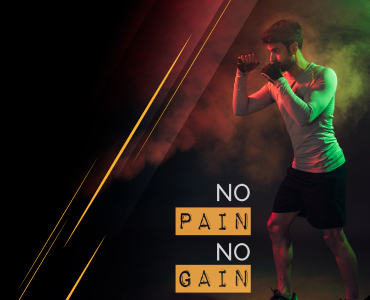
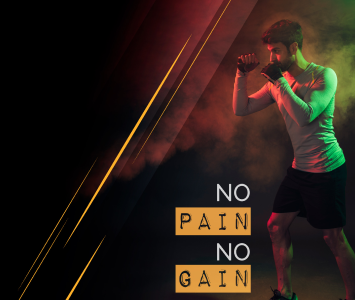
-Sign up View

diff --git a/lib/core/theme/text_styles.dart b/lib/core/theme/text_styles.dart
@@ -1,72 +1,18 @@
-// import 'package:flutter/material.dart';
-// import 'package:flutter_screenutil/flutter_screenutil.dart';
-// import 'package:med_app/core/theme/color_palette.dart';
-// import 'package:med_app/core/theme/myFontWeights.dart';
-//
-// import 'color_palette.dart';
-// import 'myFontWeights.dart';
-//
-// class MyTextStyles {
-//   static TextStyle fontInter32MainBlueBold = TextStyle(
-//       fontFamily: 'Inter',
-//       color: ColorPalette.mainBlue,
-//       fontSize: 32.sp,
-//       fontWeight: MyFontWeights.bold);
-//   static TextStyle font24BlackBoldest = TextStyle(
-//       color: Colors.black, fontSize: 24.sp, fontWeight: MyFontWeights.boldest);
-//   static TextStyle fontInter24MainBlueBold = TextStyle(
-//       fontFamily: 'Inter',
-//       color: ColorPalette.mainBlue,
-//       fontSize: 24.sp,
-//       fontWeight: MyFontWeights.bold);
-//   static TextStyle fontInter16WhiteSemiBold = TextStyle(
-//       fontFamily: 'Inter',
-//       color: Colors.white,
-//       fontSize: 16.sp,
-//       fontWeight: MyFontWeights.semiBold);
-//   static TextStyle fontInter16DarkGreyMedium = TextStyle(
-//       fontFamily: 'Inter',
-//       color: ColorPalette.darkGrey,
-//       fontSize: 16.sp,
-//       fontWeight: MyFontWeights.medium);
-//   static TextStyle fontInter14DarkGreyRegular = TextStyle(
-//       fontFamily: 'Inter',
-//       color: ColorPalette.darkGrey,
-//       fontSize: 14.sp,
-//       fontWeight: MyFontWeights.regular);
-//   static TextStyle fontInter14DarkBlueMedium = TextStyle(
-//       fontFamily: 'Inter',
-//       color: ColorPalette.darkBlue,
-//       fontSize: 14.sp,
-//       fontWeight: MyFontWeights.medium);
-//   static TextStyle fontInter14GreyMedium = TextStyle(
-//       fontFamily: 'Inter',
-//       color: ColorPalette.grey,
-//       fontSize: 14.sp,
-//       fontWeight: MyFontWeights.medium);
-//   static TextStyle fontInter13MainBlueRegular = TextStyle(
-//       fontFamily: 'Inter',
-//       color: ColorPalette.mainBlue,
-//       fontSize: 13.sp,
-//       fontWeight: MyFontWeights.regular);
-//   static TextStyle fontInter13DarkGreyRegular = TextStyle(
-//       fontFamily: 'Inter',
-//       color: ColorPalette.darkGrey,
-//       fontSize: 13.sp,
-//       fontWeight: MyFontWeights.regular);
-//   static TextStyle fontInter11DarkGreyRegular = TextStyle(
-//       fontFamily: 'Inter',
-//       color: ColorPalette.darkGrey,
-//       fontSize: 11.sp,
-//       fontWeight: MyFontWeights.regular);
-//   static TextStyle fontInter11DarkBlueSemiBold = TextStyle(
-//       fontFamily: 'Inter',
-//       color: ColorPalette.darkBlue,
-//       fontSize: 11.sp,
-//       fontWeight: MyFontWeights.semiBold);
-//   static TextStyle fontInter11MainBlueBold = TextStyle(
-//       fontFamily: 'Inter',
-//       color: ColorPalette.mainBlue,
-//       fontSize: 11.sp,
-//       fontWeight: MyFontWeights.bold);
-// }
+import 'package:flutter/material.dart';
+import 'package:flutter_screenutil/flutter_screenutil.dart';
+
+import 'color_palette.dart';
+import 'myFontWeights.dart';
+
+class MyTextStyles {
+  static TextStyle fontInter18MainGreenMedium = TextStyle(
+      fontFamily: 'Inter',
+      color: ColorPalette.mainGreen,
+      fontSize: 18.sp,
+      fontWeight: MyFontWeights.medium);
+  static TextStyle fontInter15MainGreenMedium = TextStyle(
+      fontFamily: 'Inter',
+      color: ColorPalette.mainGreen,
+      fontSize: 15.sp,
+      fontWeight: MyFontWeights.medium);
+}

diff --git a/lib/features/sign_up/presentation/views/sign_up.dart b/lib/features/sign_up/presentation/views/sign_up.dart
@@ -1,0 +1,55 @@
+import 'package:flutter/material.dart';
+import 'package:flutter_screenutil/flutter_screenutil.dart';
+import 'package:gym_management/core/theme/color_palette.dart';
+import 'package:gym_management/core/theme/text_styles.dart';
+import 'package:gym_management/core/widgets/button_with_icon.dart';
+import 'package:gym_management/core/widgets/space.dart';
+import 'package:gym_management/core/widgets/text_between_dividers.dart';
+import 'package:gym_management/features/sign_up/presentation/widgets/top_image.dart';
+
+class SignUp extends StatelessWidget {
+  const SignUp({super.key});
+
+  @override
+  Widget build(BuildContext context) {
+    return Scaffold(
+        body: Column(children: [
+      const TopImage(),
+      verticalSpace(10),
+      CircleAvatar(
+        backgroundColor: ColorPalette.mainGreen,
+        radius: 25.sp,
+      ),
+      verticalSpace(10),
+      Text("Manage Your Gym", style: MyTextStyles.fontInter18MainGreenMedium),
+      verticalSpace(20),
+      TextBetweenDividers(text: "Log in or Sign up"),
+      verticalSpace(25),
+
+      // Mail button
+      ButtonWithIcon(
+        text: "Continue with Mail",
+        icon: Icon(Icons.mail_outline_rounded),
+      ),
+      verticalSpace(25),
+      TextBetweenDividers(text: "OR"),
+      verticalSpace(25),
+
+      // Google button
+      ButtonWithIcon(
+        text: "Sign in with Google",
+        icon: Image.asset(
+          "assets/icons/google.png",
+          height: 25.h,
+        ),
+      ),
+      verticalSpace(100),
+      TextButton(
+          onPressed: () {},
+          child: Text(
+            "Contact us",
+            style: MyTextStyles.fontInter15MainGreenMedium,
+          ))
+    ]));
+  }
+}

diff --git a/lib/main.dart b/lib/main.dart
@@ -16,18 +16,20 @@ class MyApp extends StatelessWidget {
 
   @override
   Widget build(BuildContext context) {
-    return ScreenUtilInit(
-      designSize: const Size(375, 812),
-      minTextAdapt: true,
-      child: AnnotatedRegion(
-        value: SystemUiOverlayStyle(
-            systemNavigationBarColor: ColorPalette.backgroundColor,
-            statusBarColor: ColorPalette.backgroundColor),
-        child: MaterialApp(
-          debugShowCheckedModeBanner: false,
-          theme: ApplicationThemeManager.theme,
-          initialRoute: PagesRoutes.onBoardingView,
-          onGenerateRoute: AppRouter.onGenerateRoute,
+    return SafeArea(
+      child: ScreenUtilInit(
+        designSize: const Size(375, 812),
+        minTextAdapt: true,
+        child: AnnotatedRegion(
+          value: SystemUiOverlayStyle(
+              systemNavigationBarColor: ColorPalette.backgroundColor,
+              statusBarColor: ColorPalette.backgroundColor),
+          child: MaterialApp(
+            debugShowCheckedModeBanner: false,
+            theme: ApplicationThemeManager.theme,
+            initialRoute: PagesRoutes.onBoardingView,
+            onGenerateRoute: AppRouter.onGenerateRoute,
+          ),
         ),
       ),
     );

diff --git a/lib/core/widgets/button_with_icon.dart b/lib/core/widgets/button_with_icon.dart
@@ -1,0 +1,38 @@
+import 'package:flutter/material.dart';
+import 'package:flutter_screenutil/flutter_screenutil.dart';
+import 'package:gym_management/core/theme/text_styles.dart';
+import 'package:gym_management/core/widgets/space.dart';
+
+import '../theme/color_palette.dart';
+
+class ButtonWithIcon extends StatelessWidget {
+  ButtonWithIcon({super.key, required this.text, required this.icon});
+
+  Widget icon;
+  String text;
+
+  @override
+  Widget build(BuildContext context) {
+    return GestureDetector(
+        onTap: () {},
+        child: Container(
+          padding: EdgeInsets.symmetric(horizontal: 20.w),
+          width: 350.w,
+          height: 50.h,
+          decoration: BoxDecoration(
+              border: Border.all(color: ColorPalette.mainGreen),
+              borderRadius: BorderRadius.circular(8)),
+          child: Row(
+            children: [
+              icon,
+              horizontalSpace(55),
+              Text(
+                style: MyTextStyles.fontInter15MainGreenMedium,
+                text,
+                textAlign: TextAlign.center,
+              )
+            ],
+          ),
+        ));
+  }
+}

diff --git a/lib/core/widgets/text_between_dividers.dart b/lib/core/widgets/text_between_dividers.dart
@@ -1,0 +1,38 @@
+import 'package:flutter/material.dart';
+
+import '../theme/color_palette.dart';
+import '../theme/text_styles.dart';
+
+class TextBetweenDividers extends StatelessWidget {
+  TextBetweenDividers({super.key, required this.text});
+
+  String text;
+
+  @override
+  Widget build(BuildContext context) {
+    return Row(
+      children: [
+        Expanded(
+            child: Padding(
+          padding: const EdgeInsets.symmetric(horizontal: 20.0),
+          child: Divider(
+            height: 2,
+            color: ColorPalette.mainGreen,
+          ),
+        )),
+        Text(
+          text,
+          style: MyTextStyles.fontInter15MainGreenMedium,
+        ),
+        Expanded(
+            child: Padding(
+          padding: const EdgeInsets.symmetric(horizontal: 20.0),
+          child: Divider(
+            height: 2,
+            color: ColorPalette.mainGreen,
+          ),
+        ))
+      ],
+    );
+  }
+}

diff --git a/lib/core/configurations/app_router.dart b/lib/core/configurations/app_router.dart
@@ -1,13 +1,13 @@
 import 'package:flutter/material.dart';
 import 'package:gym_management/core/configurations/pages_routes.dart';
+import 'package:gym_management/features/sign_up/presentation/views/sign_up.dart';
 
 class AppRouter {
   static Route<dynamic> onGenerateRoute(RouteSettings settings) {
     switch (settings.name) {
       case PagesRoutes.onBoardingView:
         return MaterialPageRoute(
-            builder: (context) => Placeholder(), settings: settings);
-
+            builder: (context) => SignUp(), settings: settings);
       default:
         return MaterialPageRoute(builder: (context) => const Placeholder()
             // builder: (context) => SplashView()

diff --git a/lib/features/sign_up/presentation/widgets/top_image.dart b/lib/features/sign_up/presentation/widgets/top_image.dart
@@ -1,0 +1,21 @@
+import 'package:flutter/material.dart';
+import 'package:flutter_screenutil/flutter_screenutil.dart';
+
+class TopImage extends StatelessWidget {
+  const TopImage({super.key});
+
+  @override
+  Widget build(BuildContext context) {
+    return Container(
+      height: 300.h,
+      decoration: const BoxDecoration(
+          image: DecorationImage(
+              image: AssetImage(
+            "assets/images/iPhone 14 - noPain.png",
+          )),
+          borderRadius: BorderRadius.only(
+              bottomLeft: Radius.circular(50),
+              bottomRight: Radius.circular(50))),
+    );
+  }
+}

diff --git a/lib/core/widgets/space.dart b/lib/core/widgets/space.dart
@@ -6,5 +6,5 @@ SizedBox verticalSpace(int height) {
 }
 
 SizedBox horizontalSpace(int width) {
-  return SizedBox(height: width.w);
+  return SizedBox(width: width.w);
 }
